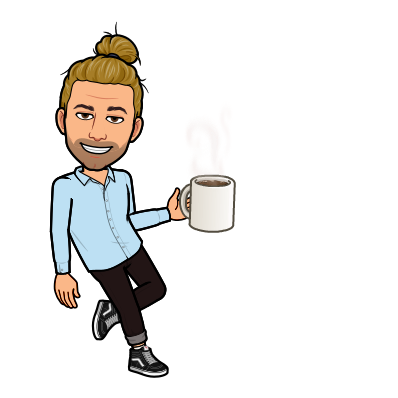
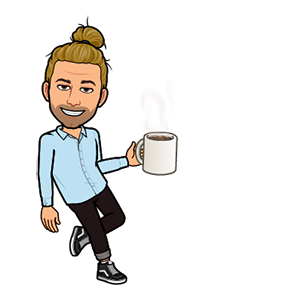
added smoothscroll, optimized images, changed robot.txt for search engine crawling

diff --git a/public/index.html b/public/index.html
@@ -19,6 +19,9 @@
 
     <!-- PAGE LOADER -->
     <style>
+      html{
+        scroll-behavior: smooth;
+      }
       body{
         margin: 0;
         padding: 0;
